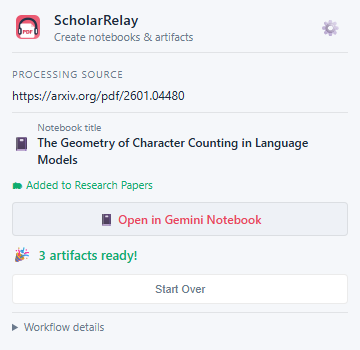
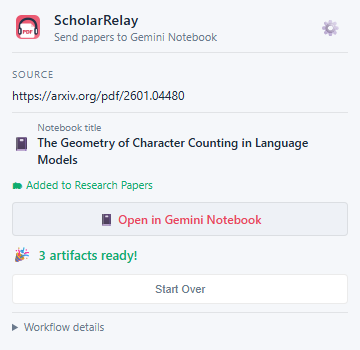
Clarify popup actions and shared artifact language (#16)

Changed region(s): [[0.1528, 0.0857, 0.6111, 0.1429], [0.0306, 0.2, 0.3361, 0.2286]]

diff --git a/popup.js b/popup.js
@@ -149,7 +149,7 @@ async function refreshCollections() {
         const response = await chrome.runtime.sendMessage({ type: 'LIST_COLLECTIONS' });
         if (!response?.ok) throw new Error(response?.message || 'Could not load collections');
 
-        select.replaceChildren(new Option('Do not add to a collection', ''));
+        select.replaceChildren(new Option('No collection', ''));
         for (const collection of response.collections || []) {
             const emoji = collection.emoji ? `${collection.emoji} ` : '';
             const count = Array.isArray(collection.notebookIds) ? collection.notebookIds.length : 0;
@@ -167,7 +167,7 @@ async function refreshCollections() {
                 : 'No collections found. Create one in Gemini Notebook first.';
         }
     } catch (error) {
-        select.replaceChildren(new Option('Do not add to a collection', ''));
+        select.replaceChildren(new Option('No collection', ''));
         if (selectedId) {
             select.add(new Option('Previously selected collection (could not refresh)', selectedId));
             select.value = selectedId;
@@ -386,7 +386,7 @@ function renderDetection(data) {
     const truncated = data.pdfUrl.length > 80 ? data.pdfUrl.substring(0, 77) + '...' : data.pdfUrl;
     const sourceLabel = {
         direct_pdf_url: 'Direct PDF', pdf_content_type: 'PDF document',
-        citation_pdf_url: 'Publisher PDF metadata', pdf_link: 'Article PDF link', embedded_pdf: 'Embedded PDF viewer',
+        citation_pdf_url: 'Publisher PDF', pdf_link: 'Article PDF', embedded_pdf: 'Embedded PDF viewer',
         arxiv_abstract: 'arXiv abstract page', arxiv_pdf: 'arXiv PDF',
         arxiv_link: 'arXiv PDF link', page_link: 'PDF link on page',
         direct_url: 'Direct PDF URL', local_file: 'Local file',
@@ -401,7 +401,7 @@ function renderDetection(data) {
       <div class="pdf-url">${escapeHtml(truncated)}</div>
       <div class="pdf-source">via ${escapeHtml(sourceLabel)}</div>
     </div>
-    <button class="btn-generate" id="btn-upload-start">Use Current PDF and Generate</button>
+    <button class="btn-generate" id="btn-upload-start">Upload & Generate</button>
     <button class="btn-secondary" id="btn-upload-other">Choose Different PDF</button>`;
         document.getElementById('btn-upload-start').addEventListener('click', () => startPipelineFromCurrentTabPdf(data.pageUrl || data.pdfUrl));
         document.getElementById('btn-upload-other').addEventListener('click', () => promptForPdfUpload(data.pageUrl || data.pdfUrl));
@@ -417,7 +417,7 @@ function renderDetection(data) {
     <button class="btn-generate" id="btn-start">🎧 Generate Artifacts</button>`;
     document.getElementById('btn-start').addEventListener('click', () =>
         startPipeline(data.pdfUrl, data.pageUrl, 'pdf', data.sourceTitle, data.pdfEvidence || data.source)
-            .catch(error => alert(error.message))
+            .catch(error => showError(error.message))
     );
 }
 
@@ -428,13 +428,35 @@ function renderNoPdf() {
       No PDF detected on this page.<br>
       <span style="font-size:11px; color:var(--text-dim)">You can still try importing this page URL directly.</span>
     </div>
-    <button class="btn-generate" id="btn-start-url">Use Current Webpage URL</button>
+    <button class="btn-generate" id="btn-start-url">Import Page & Generate</button>
     <button class="btn-secondary" id="btn-upload-manual">Upload Local PDF</button>`;
     document.getElementById('btn-start-url').addEventListener('click', startPipelineFromCurrentPageUrl);
     document.getElementById('btn-upload-manual').addEventListener('click', () => promptForPdfUpload(null));
 }
 
+function errorHtml(detail) {
+    const invalidPdf = /isn't a valid PDF|not a PDF|not a valid PDF|PDF signature/i.test(detail);
+    const unknown = /unknown|uncertain|unconfirmed|timed? ?out|timeout|no source ID|did not respond|malformed/i.test(detail);
+    const summary = invalidPdf ? "This file isn't a valid PDF. Choose another file."
+        : unknown ? 'The result could not be confirmed. Check Gemini Notebook before starting again.'
+        : /40 MiB|too large|size limit/i.test(detail) ? 'This PDF exceeds the upload limit. Upload it directly in Gemini Notebook.'
+        : /sign.?in|authentication|logged in/i.test(detail) ? 'Sign in to Gemini Notebook, then reopen this popup.'
+        : /quota|rate.?limit/i.test(detail) ? 'Gemini Notebook has reached a limit. Wait before starting more work.'
+        : 'This workflow needs attention. Check the details before continuing.';
+    return `<div class="pipeline-error-box" role="alert">${escapeHtml(summary)}</div>
+      ${detail !== summary ? `<details class="workflow-details"><summary>Details</summary><div class="step-detail">${escapeHtml(detail)}</div></details>` : ''}`;
+}
+
+function showError(detail) {
+    document.getElementById('popup-error')?.remove();
+    const box = document.createElement('div');
+    box.id = 'popup-error';
+    box.innerHTML = errorHtml(String(detail));
+    contentEl.append(box);
+}
+
 function renderProgress(state) {
+    const openDetails = new Set([...contentEl.querySelectorAll('details[open]')].map(el => el.querySelector('summary')?.textContent));
     const currentStepIndex = STEPS.findIndex(s => s.keys.includes(state.step));
 
     const stepsHtml = STEPS.map((step, idx) => {
@@ -442,7 +464,7 @@ function renderProgress(state) {
         if (state.status === 'error' && idx === currentStepIndex) { cls = 'error'; content = '!'; }
         else if (idx < currentStepIndex || state.step === 'done') { cls = 'done'; content = '✓'; }
         else if (idx === currentStepIndex) { cls = 'active'; content = '●'; }
-        const detail = idx === currentStepIndex ? state.stepDetail : '';
+        const detail = idx === currentStepIndex && state.status !== 'error' && state.step !== 'wait_pdf_access' ? state.stepDetail : '';
         return `
       <div class="pipeline-step">
         <div class="step-indicator ${cls}">${content}</div>
@@ -488,14 +510,20 @@ function renderProgress(state) {
       </div>`;
     }
     if (state.status === 'error') {
-        bottomHtml += `<div class="pipeline-error-box" role="alert">${escapeHtml(state.error || state.stepDetail || 'The pipeline failed.')}</div>`;
+        bottomHtml += errorHtml(state.error || state.stepDetail || 'The workflow stopped.');
+    }
+    if (state.status === 'running') {
+        bottomHtml += `<p class="s-help" role="status">${state.step === 'wait_pdf_access'
+            ? 'Allow the download or choose a PDF to continue in this notebook.'
+            : 'You can close this popup. Work continues.'}</p>`;
     }
     if (state.status === 'running' && state.step === 'wait_pdf_access') {
-        bottomHtml += `<button class="btn-generate" id="btn-resume-pdf">Allow PDF Download and Retry</button>
-          <button class="btn-secondary" id="btn-fallback-file">Choose PDF for This Notebook</button>`;
+        bottomHtml += `<button class="btn-generate" id="btn-resume-pdf">Allow Download & Continue</button>
+          <button class="btn-secondary" id="btn-fallback-file">Upload PDF Instead</button>
+          ${state.stepDetail ? `<details class="workflow-details"><summary>Download details</summary><div class="step-detail">${escapeHtml(state.stepDetail)}</div></details>` : ''}`;
     }
     if (state.status === 'running' && ['wait_source', 'wait_artifacts', 'wait_pdf_access', 'download_pdf'].includes(state.step)) {
-        bottomHtml += `<button class="btn-secondary" id="btn-abort">Stop Monitoring</button>`;
+        bottomHtml += `<button class="btn-secondary" id="btn-abort" aria-describedby="stop-help">Stop Monitoring</button><p class="s-help" id="stop-help">Stops this workflow. Work already started in Gemini Notebook may continue.</p>`;
     }
     if (state.status === 'error' || state.status === 'completed') {
         bottomHtml += `<button class="btn-secondary" id="btn-reset">Start Over</button>`;
@@ -503,25 +531,30 @@ function renderProgress(state) {
 
     contentEl.innerHTML = `
     <div class="pdf-info">
-      <div class="label">Processing Source</div>
+      <div class="label">Source</div>
       <div class="pdf-url">${escapeHtml((state.pdfUrl || '').substring(0, 80))}</div>
     </div>
     ${titleHtml}
     ${collectionHtml}
+    ${state.failedUrlSourceId ? '<details class="workflow-details"><summary>Source replacement</summary><div class="step-detail">The PDF is uploaded into this notebook. The failed URL source is kept. Artifacts use the replacement PDF.</div></details>' : ''}
     ${state.status === 'completed'
         ? `${bottomHtml}<details class="workflow-details"><summary>Workflow details</summary><div class="pipeline">${stepsHtml}</div></details>`
         : `<div class="pipeline">${stepsHtml}</div>${bottomHtml}`}`;
+
+    contentEl.querySelectorAll('details').forEach(el => {
+        el.open = openDetails.has(el.querySelector('summary')?.textContent);
+    });
 
     document.getElementById('btn-reset')?.addEventListener('click', async () => {
         try {
             const response = await chrome.runtime.sendMessage({ type: 'RESET_STATE' });
             if (!response?.ok) {
-                alert(response?.message || 'Could not reset pipeline state.');
+                showError(response?.message || 'Could not reset pipeline state.');
                 return;
             }
             await detectAndRender();
         } catch (error) {
-            alert(error?.message || 'The service worker did not respond. Reopen the popup and try again.');
+            showError(error?.message || 'The service worker did not respond. Reopen the popup and try again.');
         }
     });
     document.getElementById('btn-abort')?.addEventListener('click', () => abortPipeline(state.runId));
@@ -530,7 +563,7 @@ function renderProgress(state) {
             const pattern = httpOriginPattern(state.originalPdfUrl);
             if (!pattern || !await chrome.permissions.request({ origins: [pattern] })) return;
             await resumeFallbackFromPopup(state.runId);
-        } catch (error) { alert(error.message); }
+        } catch (error) { showError(error.message); }
     });
     document.getElementById('btn-fallback-file')?.addEventListener('click', () => {
         const input = document.createElement('input');
@@ -541,11 +574,11 @@ function renderProgress(state) {
                 const file = input.files?.[0];
                 if (!file) return;
                 assertPdfUploadSize(file.size);
-                if (!hasPdfSignature(await file.slice(0, 1024).arrayBuffer())) throw new Error('The selected file is not a PDF.');
+                if (!hasPdfSignature(await file.slice(0, 1024).arrayBuffer())) throw new Error("This file isn't a valid PDF. Choose another file.");
                 await resumeFallbackFromPopup(state.runId, {
                     fileName: file.name, fileDataBase64: await readFileAsBase64(file),
                 });
-            } catch (error) { alert(error.message); }
+            } catch (error) { showError(error.message); }
         });
         input.click();
     });
@@ -603,8 +636,8 @@ async function startPipelineFromCurrentPageUrl() {
         await startPipeline(currentUrl, currentUrl, 'webpage', sourceTitle);
     } catch (err) {
         console.warn('[Popup] Could not start webpage URL pipeline:', err?.message || err);
-        if (btn) { btn.disabled = false; btn.textContent = 'Use Current Webpage URL'; }
-        alert(err?.message || 'Could not use current webpage URL as a source.');
+        if (btn) { btn.disabled = false; btn.textContent = 'Import Page & Generate'; }
+        showError(err?.message || 'Could not use current webpage URL as a source.');
     }
 }
 
@@ -615,13 +648,13 @@ async function abortPipeline(runId) {
             const current = response?.state || await getState();
             renderProgress(current);
             if (current.status === 'running') startPolling();
-            alert(response?.message || 'The pipeline could not be stopped.');
+            showError(response?.message || 'The pipeline could not be stopped.');
             return;
         }
         stopPolling();
         await detectAndRender();
     } catch (error) {
-        alert(error?.message || 'The service worker did not respond. Reopen the popup and try again.');
+        showError(error?.message || 'The service worker did not respond. Reopen the popup and try again.');
     }
 }
 
@@ -632,7 +665,7 @@ async function startPipelineFile(file, pageUrl, sourceTitle = null) {
     try {
         assertPdfUploadSize(file.size);
         const signature = await file.slice(0, 1024).arrayBuffer();
-        if (!hasPdfSignature(signature)) throw new Error('The selected file does not contain a PDF signature.');
+        if (!hasPdfSignature(signature)) throw new Error("This file isn't a valid PDF. Choose another file.");
         const fileDataBase64 = await readFileAsBase64(file);
         const selectedTitle = choosePdfTitle({
             payload: fileDataBase64,
@@ -665,7 +698,7 @@ async function startPipelineFile(file, pageUrl, sourceTitle = null) {
             btn.disabled = false;
             btn.textContent = originalText;
         }
-        alert(error?.message || 'Could not upload the selected PDF.');
+        showError(error?.message || 'Could not upload the selected PDF.');
         return false;
     }
 }
@@ -729,8 +762,8 @@ function isAllowedFileSchemeAccess() {
 }
 
 function showFileAccessHint() {
-    alert(
-        'To use "Use Current PDF" for local files, enable file access:\n\n' +
+    showError(
+        'To use "Upload & Generate" for local files, enable file access.\n\n' +
         '1) Open chrome://extensions\n' +
         '2) Find this extension\n' +
         '3) Enable "Allow access to file URLs"\n' +
@@ -826,7 +859,7 @@ async function startPipelineFromCurrentTabPdf(pageUrl, pdfUrl = null, detectedSo
             showFileAccessHint();
             if (btn) {
                 btn.disabled = false;
-                btn.textContent = btn.id === 'btn-start' ? '🎧 Generate Artifacts' : 'Use Current PDF and Generate';
+                btn.textContent = btn.id === 'btn-start' ? '🎧 Generate Artifacts' : 'Upload & Generate';
             }
             return;
         }
@@ -980,11 +1013,11 @@ async function startPipelineFromCurrentTabPdf(pageUrl, pdfUrl = null, detectedSo
         console.warn('[Popup] Direct local PDF read failed, falling back to file picker:', err?.message || err);
         if (btn) {
             btn.disabled = false;
-            btn.textContent = btn.id === 'btn-start' ? '🎧 Generate Artifacts' : 'Use Current PDF and Generate';
+            btn.textContent = btn.id === 'btn-start' ? '🎧 Generate Artifacts' : 'Upload & Generate';
         }
         if (['PIPELINE_ALREADY_RUNNING', 'PIPELINE_NOT_IDLE', 'PDF_TOO_LARGE'].includes(err?.code) ||
             /retain ownership/i.test(err?.message || '')) {
-            alert(err?.message || 'Another pipeline is already active.');
+            showError(err?.message || 'Another pipeline is already active.');
             return;
         }
         promptForPdfUpload(pageUrl);

diff --git a/popup.html b/popup.html
@@ -709,7 +709,7 @@
     <img class="header-icon" src="icons/icon128.png" alt="">
     <div class="header-text">
       <h1>ScholarRelay</h1>
-      <div class="subtitle">Create notebooks &amp; artifacts</div>
+      <div class="subtitle">Send papers to Gemini Notebook</div>
     </div>
     <button class="btn-gear" id="btn-gear" title="Settings">⚙</button>
   </div>
@@ -721,7 +721,7 @@
       <span class="settings-header-title">⚙ Settings</span>
     </div>
 
-    <div id="artifact-warning">⚠ At least one artifact must be enabled.</div>
+    <div id="artifact-warning">⚠ Choose at least one artifact</div>
 
     <div class="settings-inner">
 
@@ -732,7 +732,7 @@
           <span class="s-label">Add new notebooks to</span>
           <div class="collection-select-row">
             <select id="s-collectionId" class="s-select">
-              <option value="">Do not add to a collection</option>
+              <option value="">No collection</option>
             </select>
             <button type="button" class="btn-refresh-collections" id="btn-refresh-collections"
               title="Refresh collections" aria-label="Refresh collections">↻</button>
@@ -741,18 +741,31 @@
         </div>
         <hr class="s-sep">
         <div class="s-toggle-row">
-          <span class="s-toggle-label">Prefer detected paper title</span>
+          <span class="s-toggle-label">Use paper title for notebook</span>
           <label class="toggle-switch">
-            <input type="checkbox" id="s-useSourceTitleForNotebook">
+            <input type="checkbox" id="s-useSourceTitleForNotebook" aria-label="Use paper title for notebook">
             <span class="toggle-track"></span>
           </label>
         </div>
-        <div class="settings-group-help">When unavailable or off, Gemini Notebook chooses the notebook title.</div>
+        <div class="settings-group-help">If off or no title is found, Gemini Notebook names it.</div>
       </section>
 
       <!-- ================== ARTIFACT SETTINGS ================== -->
       <section class="settings-group settings-group-artifacts" aria-labelledby="artifact-settings-title">
         <div class="settings-group-title" id="artifact-settings-title">🎨 Artifact Settings</div>
+          <div class="s-field">
+            <label class="s-label" for="s-language">Artifact language</label>
+            <select id="s-language" class="s-select" aria-describedby="language-scope">
+              <option value="en">English</option>
+              <option value="ko">Korean</option>
+              <option value="ja">Japanese</option>
+              <option value="es">Spanish</option>
+              <option value="fr">French</option>
+              <option value="de">German</option>
+              <option value="pt">Portuguese</option>
+            </select>
+          </div>
+        <div class="s-help" id="language-scope">Applies to audio, video, reports, infographics, slide decks, and data tables.</div>
 
       <!-- ================== AUDIO ================== -->
       <!-- expanded by default -->
@@ -786,18 +799,7 @@
                 for="al-long">Long</label>
             </div>
           </div>
-          <div class="s-field">
-            <span class="s-label">Language</span>
-            <select id="s-language" class="s-select">
-              <option value="en">English</option>
-              <option value="ko">Korean</option>
-              <option value="ja">Japanese</option>
-              <option value="es">Spanish</option>
-              <option value="fr">French</option>
-              <option value="de">German</option>
-              <option value="pt">Portuguese</option>
-            </select>
-          </div>
+
           <div class="s-field">
             <span class="s-label">Custom instructions</span>
             <textarea id="s-audioPrompt" class="s-textarea"

diff --git a/source-import.js b/source-import.js
@@ -25,7 +25,7 @@ export function createPdfFallback({ getState, transition, download, upload, poll
       step: 'download_pdf',
       fallbackAttempted: true,
       failedUrlSourceId: state.sourceId || null,
-      stepDetail: file ? 'Preparing the selected PDF...' : 'URL import failed. Downloading the PDF for upload...',
+      stepDetail: file ? 'Preparing the selected PDF...' : 'URL import failed. Downloading the PDF for this notebook...',
     }, {
       expectedSteps: steps,
       condition: current => resume
@@ -37,7 +37,7 @@ export function createPdfFallback({ getState, transition, download, upload, poll
       const payload = file || await download(state.originalPdfUrl, state.pageUrl);
       const uploading = await transition(runId, {
         step: 'upload_pdf', fallbackUploadStarted: true,
-        stepDetail: 'Uploading the replacement PDF. Any failed URL source is retained.',
+        stepDetail: 'Uploading the PDF into the same notebook. The failed URL source is kept.',
       }, { expectedSteps: ['download_pdf'] });
       if (!uploading) return false;
       const source = await upload(state.notebookId, payload);

diff --git a/tests/store-readiness.test.js b/tests/store-readiness.test.js
@@ -57,7 +57,7 @@ test('ScholarRelay branding and package identity stay aligned', async () => {
   assert.match(englishLocale.extensionDescription.message, /Gemini Notebook/);
   assert.match(koreanLocale.extensionDescription.message, /Gemini Notebook/);
   assert.doesNotMatch(`${popupText}\n${backgroundText}`, /Chrome PDF to NotebookLM/);
-  assert.match(popupText, /Open in Gemini Notebook|Gemini Notebook chooses/);
+  assert.match(popupText, /Open in Gemini Notebook|Gemini Notebook names/);
   assert.match(readmeText, /formerly NotebookLM/);
   assert.match(privacyText, /^# Privacy Policy for ScholarRelay/m);
   assert.match(packageScript, /scholar-relay-v\$\(\$manifest\.version\)\.zip/);

diff --git a/docs/DEVELOPMENT.md b/docs/DEVELOPMENT.md
@@ -241,3 +241,11 @@ The dashboard verified draft package 1.3.0 with English and Korean before submis
 At approximately 19:24 KST, the dashboard confirmed that the extension was submitted for review and displayed `Pending review`. Automatic publication after approval was checked. This records successful submission, not approval or public availability of v1.3.0. The subsequent publication result must be confirmed on both the dashboard and public listing and appended here.
 
 The live eLife check also accepted its selected version-specific `elife-91194-v1.pdf` download link. It reached a selectable source after processing. The validation notebook retains the arXiv, both eLife URL forms, and local PDF sources.
+
+## Next release preparation during v1.3.0 review
+
+The user authorized preparing the next patch while v1.3.0 remains in review. Development and tested PR merges can proceed now. Keep the existing store submission untouched and prepare a draft release for later submission.
+
+Issue #15 keeps the term artifact and shortens source actions and notebook settings. Artifact language moves above the individual artifact sections while preserving the saved key and six existing language-aware generation calls. Permission waits request an action rather than claiming work continues. Stop Monitoring explains that accepted Google work can continue. Errors retain diagnostics in expandable details and uncertain outcomes direct users to inspect the notebook before starting again. Replacement details explain the same-notebook upload and retained failed source without showing internal IDs.
+
+Validation passed 69 tests and the isolated Chrome smoke, including language persistence with Audio disabled, collapsed error details, running and permission states, ownership guards, and the existing real 40 MiB transfer. The completed popup remains 344 pixels high at 360 pixels wide. Current README and store screenshots were regenerated and visually inspected.
